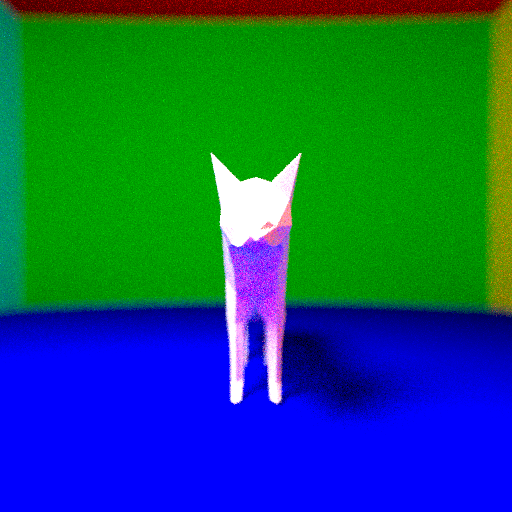
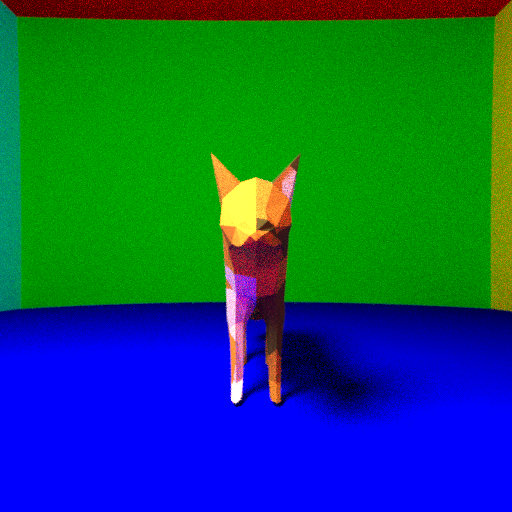
finished

diff --git a/Raytracer_Assignement1/classes/scene.cpp b/Raytracer_Assignement1/classes/scene.cpp
@@ -95,17 +95,22 @@ Scene::Scene(){
     //Mr. Cat
     TriangleMesh* mesh;
     mesh = new TriangleMesh;
-    const char* file_name = "/Users/Diego/Documents/SEM6/CSE306/Raytracer_Assignement1/classes/cat/cat.obj"; 
-    const char* texture = "/Users/Diego/Documents/SEM6/CSE306/Raytracer_Assignement1/classes/cat/cat_diff.png";
+    //THESE NAMES ARE TO BE CHANGED IN ORDERED TO SWITCH MESHES
+    // AS WELL AS UNCOMMENTING THE CORRECT TRANSFORMATION
+
+    const char* file_name = "classes/fox/fox.obj"; 
+    const char* texture = "classes/fox/fox_diff.png";
     mesh->readOBJ(file_name); 
+    printf("number of triangles %d\n",int(mesh->vertices.size()));
     //cat transformation
-    for (int i = 0; i < int(mesh->vertices.size()); i++) {
-        mesh->vertices[i] = 0.6 * mesh->vertices[i] + Vector(0, -10, 0);
-    }
-    //fox transformation
     // for (int i = 0; i < int(mesh->vertices.size()); i++) {
-    //     mesh->vertices[i] = 0.2 * mesh->vertices[i] + Vector(0, -10, 20);
+    //     mesh->vertices[i] = 0.6 * mesh->vertices[i] + Vector(0, -10, 0);
     // }
+    //fox transformation
+    for (int i = 0; i < int(mesh->vertices.size()); i++) {
+        mesh->vertices[i] = 0.2 * mesh->vertices[i] + Vector(0, -10, 20);
+    }
+
     //push just the mesh
     // cat->id = counter; counter++;
     // objects.push_back(cat); 
